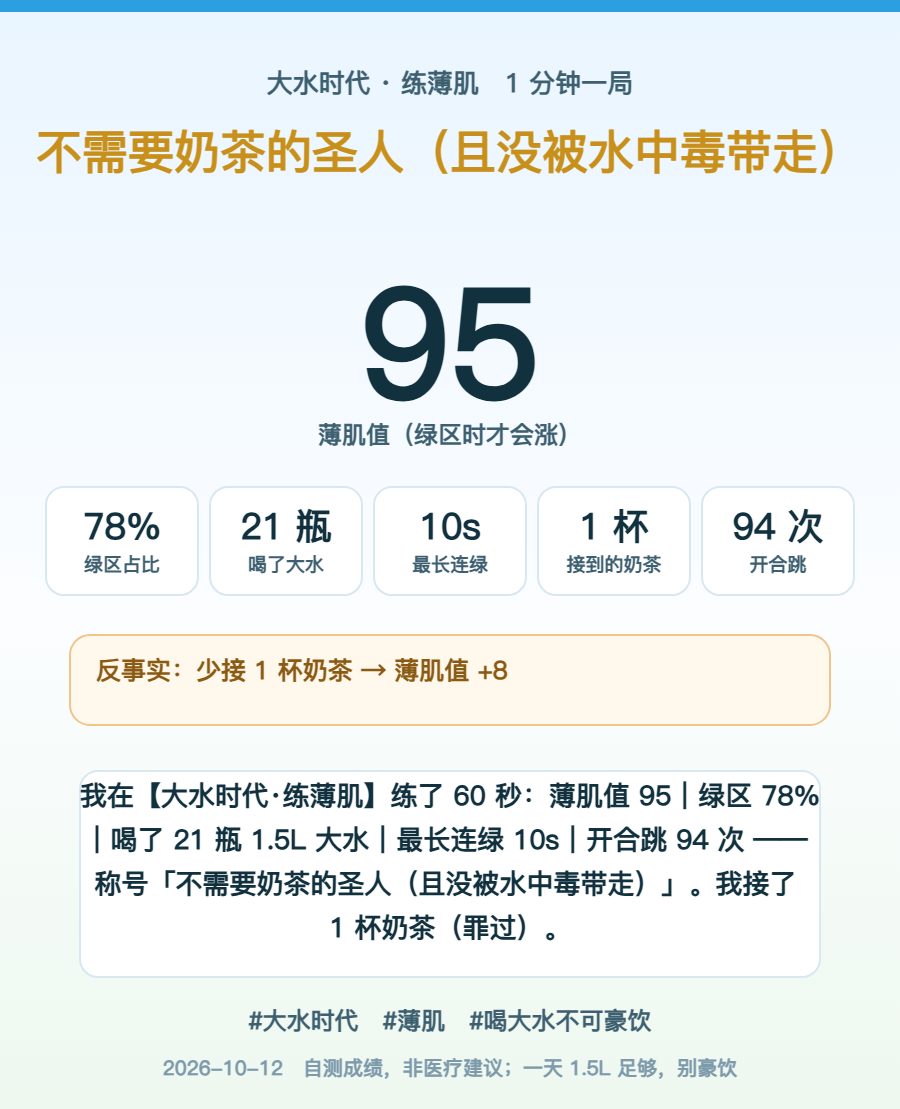
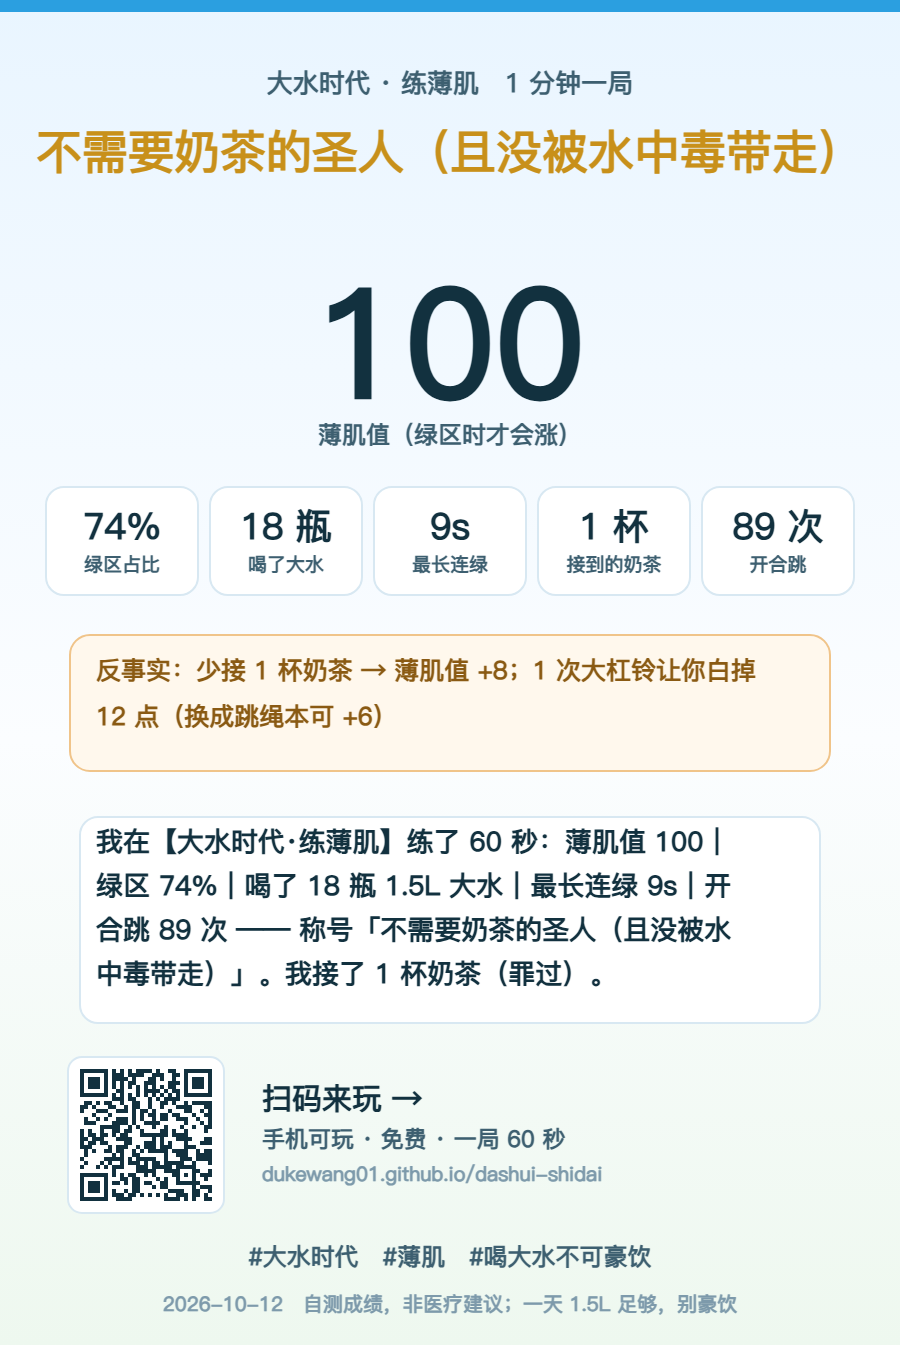
成绩卡: 文案左对齐+标点留量; README: 二维码闭环与技术要点; 门面换成 100 分局实卡

diff --git a/index.html b/index.html
@@ -739,7 +739,7 @@ function saveCard(){
   mx.font = "700 25px " + F;
   var cl = wrapLines(mx, document.getElementById("cf").textContent, 700).slice(0, 5);
   mx.font = "700 27px " + F;
-  var sl = wrapLines(mx, document.getElementById("share").value.split("#")[0].trim(), 740).slice(0, 8);
+  var sl = wrapLines(mx, document.getElementById("share").value.split("#")[0].trim(), 660).slice(0, 8);   /* 660 而非 700：给「」等标点粘连留余量，否则末字会顶出圆角框 */
 
   /* ---------- 流水布局（全部相对累计，互不重叠） ---------- */
   var cfH = 44 + cl.length * 46, shH = sl.length * 44 + 30;
@@ -781,8 +781,8 @@ function saveCard(){
   x.textAlign = "center";
   x.fillStyle = "#ffffff"; x.strokeStyle = "#d8e8f2"; x.lineWidth = 2;
   x.beginPath(); x.roundRect ? x.roundRect(80, yShareBx, 740, shH, 18) : x.rect(80, yShareBx, 740, shH); x.fill(); x.stroke();
-  x.fillStyle = "#12313f"; x.font = "700 27px " + F;
-  for(var m = 0; m < sl.length; m++) x.fillText(sl[m], 450, yShareTx + m * 44);
+  x.fillStyle = "#12313f"; x.font = "700 27px " + F; x.textAlign = "left";   /* 段落左对齐：末行居中会飘到中间 */
+  for(var m = 0; m < sl.length; m++) x.fillText(sl[m], 96, yShareTx + m * 44);
   /* 二维码区：白底含静区，模块整数落点（分数坐标会被抗锯齿糊掉，扫不出来） */
   x.fillStyle = "#ffffff"; x.strokeStyle = "#d8e8f2"; x.lineWidth = 2;
   x.beginPath();

diff --git a/README.md b/README.md
@@ -16,6 +16,8 @@
 | **水位**（生存轴） | 掉得很快，必须接 **1.5L 大水**续命。绿区 **52–82** 才是安全带；**超 86 → 水中毒「肿」**，血量直掉 | 真新闻梗：*"喝大水不可豪饮"*。玩家一定会先灌爆一次，然后自己笑 |
 | **薄肌值**（计分轴） | **只有在水位绿区里才被动增长**。这是唯一的主分 | 两根轴互相拉扯：想练肌就得稳水位，想稳水位就得不停喝 |
 
+**开局先放 3 秒**（可点击跳过，开始页也有「看开场 3 秒」按钮）：绿巨人变身 → 先喝口水 → 上秤 18.6% → 一拳砸秤「楼，还是没砸」。这是《怪物养生图鉴》系列第一集，先把「练薄肌」的梗钉进脑子，再让玩家自己上手。
+
 **掉落物一览**
 
 | 物件 | 效果 | 梗 |
@@ -83,6 +85,9 @@
 - **单文件 HTML**：内联 CSS/JS，无框架、无 CDN、无字体外链 —— `index.html` 拷到哪都能跑。
 - **判定用扫掠 AABB**：初版按"当前帧位置"判断碰撞，高倍速下一帧位移 49px 会直接**飞过** 64px 的接水窗口 —— 改成对移动线段做扫掠检测后，高速与掉帧都不再漏判。
 - **可测性**：页面暴露 `window.__game`（内部状态 / 配置 / `saveCard`），配 `?bot=1&speed=N` 跑机器人；配 CDP 自动化脚本截图取证，并且会收集 `window.__errs`（运行时错误的兜底收集）。
+- **二维码构建期生成、运行期零依赖**：Python `segno` 出 33×33 矩阵（ECC Q）→ 内联成 0/1 字符串 → canvas 按 **4px 整数模块 + 白底静区**绘制（小数坐标会被抗锯齿糊掉、深色底会吃掉对比度，两种都扫不出来）。验证方式不是"比对矩阵"，而是**把导出的 PNG 拿去真解码**（`cv2.QRCodeDetector` 解出正确网址才算过；`cv2.imread` 读不了中文路径，要用 `numpy + imdecode` 读字节）。
+- **开场 3 秒是独立覆盖层 canvas**：自带 rAF 循环、3 秒自动收尾、点击/按键跳过 —— 完全不碰主渲染循环，所以开场出问题也影响不到游戏本体；`?bot=1` 或加 `&nointro` 时自动跳过（否则每次自动化都白等 3 秒、时序断言会漂）；暴露 `__intro.at(ms)` 把任意毫秒定格成图，粒子走固定参数表而非 `Math.random`，同一毫秒每次渲染都一样。
+- **成绩卡按"量算 + 流水游标"排版**：所有块高由**行数**算出（`y += 块高 + 间距`），画布总高取最后一个游标 —— 换行多一点就长一点；分享文案块**左对齐**（居中时段落末行会飘到框中间），换行宽度还留了约 40px 余量给「」这类标点粘连（换行规则不让行首出现标点，会把标点挤回上一行、顶出圆角框）。
 
 **机器人实测（2 倍速，同一脚本多局）**
 
